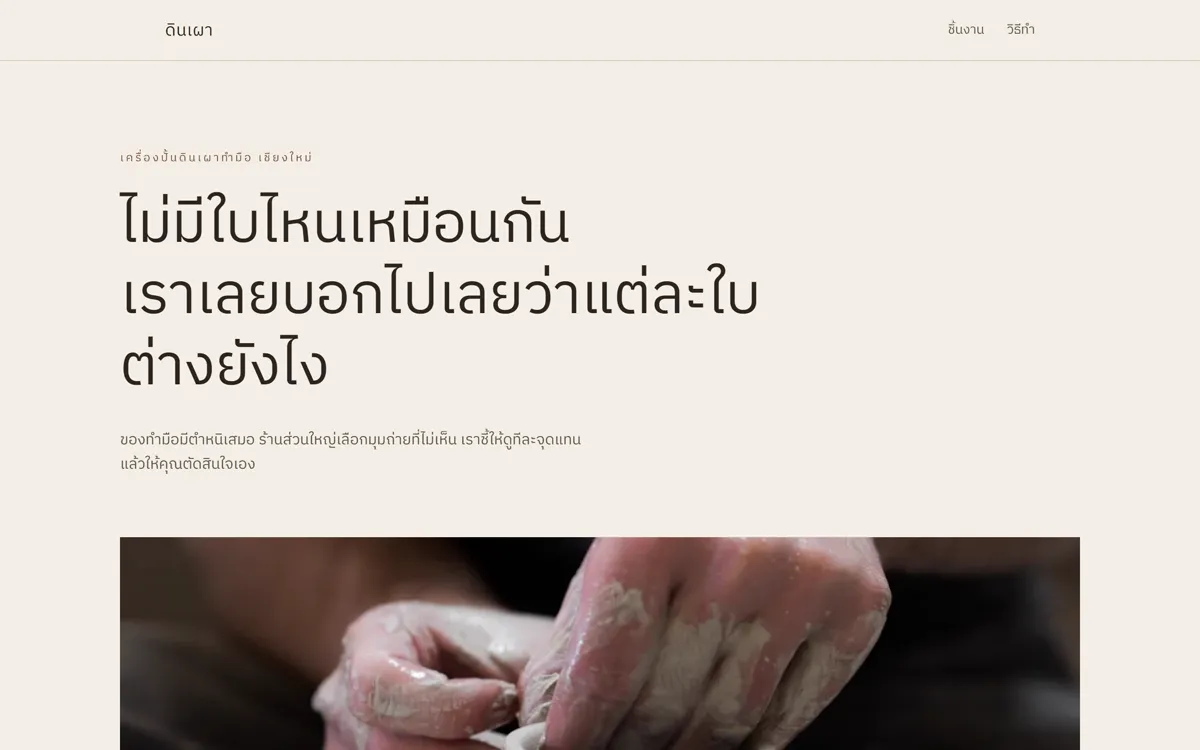
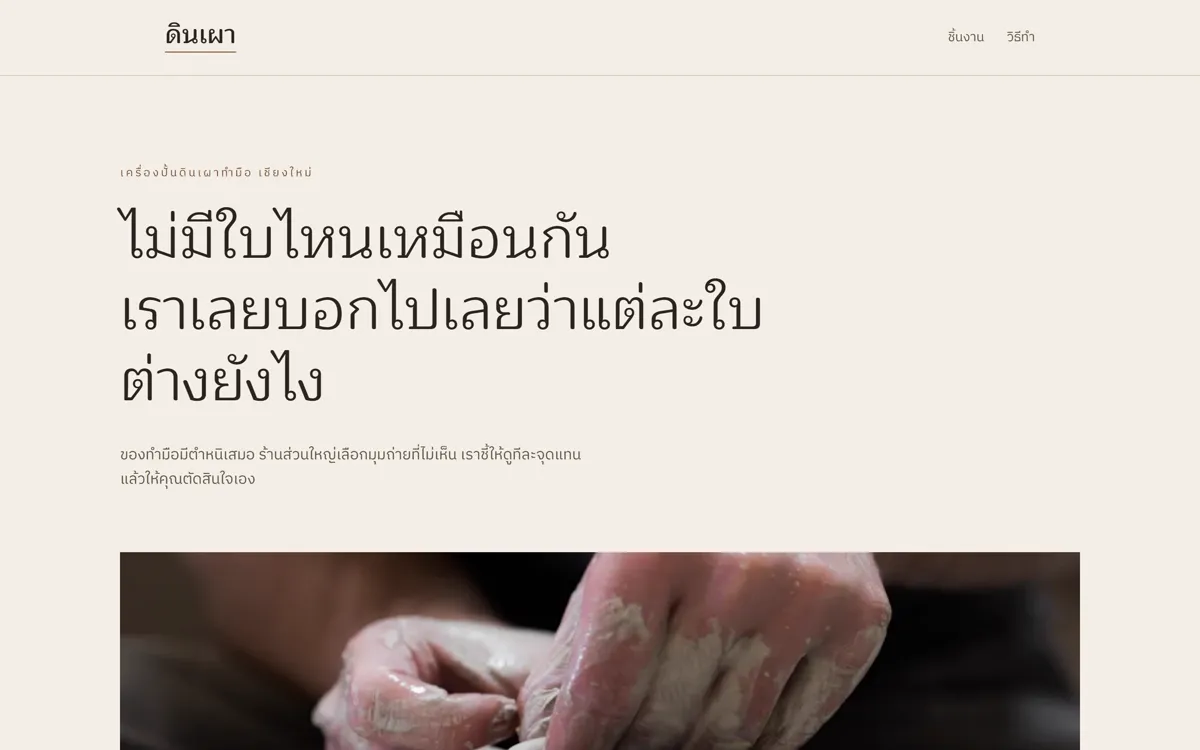
Give Kiln a serif that actually has Thai, and a wordmark that holds its corner
Two problems with one cause. The page was built on a serif/sans pairing and
Cormorant Garamond has no Thai glyphs, so every Thai heading fell through the
stack to the sans. The contrast the whole design rests on was visible on the
prices and nowhere else, and the page read as sans throughout.

Maitree is a Thai serif with a Latin of its own, so the headings are serif in
both scripts and the price sets in one face instead of two: "890" was coming out
of Cormorant while "บาท" beside it came out of Plex, which looked like two
fragments rather than a line. Three faces down to two.

The wordmark was text-lg and disappeared. On a page with this little on it, the
one fixed name has to hold the corner or the header reads as an empty bar. Now
larger, at 600, sitting on a one-pixel clay rule, which this particular word can
carry because none of its letters drop below the baseline. The bar grew to 80px
to give it room, so the anchored sections clear it.

shoot-kiln 11/11, shoot-contrast 36/36, shoot-audit clean at all three widths.

diff --git a/web/src/components/labs/kiln/kiln-demo.tsx b/web/src/components/labs/kiln/kiln-demo.tsx
@@ -28,13 +28,29 @@ export function KilnDemo() {
         className="sticky top-0 border-b"
         style={{ background: COLOR.paper, borderColor: COLOR.hair, zIndex: Z.bar }}
       >
-        <div className="mx-auto flex h-16 max-w-5xl items-center justify-between px-5 sm:px-8 lg:px-12">
+        <div className="mx-auto flex h-20 max-w-5xl items-center justify-between px-5 sm:px-8 lg:px-12">
+          {/* The wordmark was text-lg and disappeared into the whitespace. On a
+              page with this little on it, the one fixed name has to hold the
+              corner or the header reads as empty. Bigger, heavier, and sitting
+              on a clay rule, which "ดินเผา" can carry because none of its
+              letters drop below the baseline. */}
           <a
             href="#top"
-            className="flex items-center py-2 text-lg tracking-wide focus-visible:outline-2 focus-visible:outline-offset-4"
-            style={{ color: COLOR.ink, outlineColor: COLOR.clay, ...serifStyle }}
+            className="flex items-center py-2 focus-visible:outline-2 focus-visible:outline-offset-4"
+            style={{ outlineColor: COLOR.clay }}
           >
-            ดินเผา
+            <span
+              className="text-2xl leading-none sm:text-[1.7rem]"
+              style={{
+                color: COLOR.ink,
+                fontWeight: 600,
+                borderBottom: `1px solid ${COLOR.clay}`,
+                paddingBottom: 3,
+                ...serifStyle,
+              }}
+            >
+              ดินเผา
+            </span>
           </a>
           <nav className="flex items-center gap-6" style={sansStyle}>
             <a
@@ -122,7 +138,7 @@ export function KilnDemo() {
             thing that keeps a three-step section from reading as a pitch. */}
         <section
           id="process"
-          className="scroll-mt-16 px-5 py-24 sm:px-8 lg:px-12"
+          className="scroll-mt-20 px-5 py-24 sm:px-8 lg:px-12"
           style={{ background: COLOR.paperDeep }}
         >
           <motion.div
@@ -196,7 +212,10 @@ export function KilnDemo() {
         style={{ background: COLOR.ink, ...sansStyle }}
       >
         <div className="mx-auto max-w-5xl">
-          <p className="text-2xl" style={{ color: COLOR.paper, ...serifStyle }}>
+          <p
+            className="text-4xl sm:text-5xl"
+            style={{ color: COLOR.paper, fontWeight: 300, ...serifStyle }}
+          >
             ดินเผา
           </p>
           <p className="mt-6 max-w-xl text-sm leading-relaxed" style={{ color: COLOR.onInkMuted }}>

diff --git a/web/src/app/labs/kiln/page.tsx b/web/src/app/labs/kiln/page.tsx
@@ -1,16 +1,16 @@
 import type { Metadata } from "next";
-import { Cormorant_Garamond, IBM_Plex_Sans_Thai } from "next/font/google";
+import { IBM_Plex_Sans_Thai, Maitree } from "next/font/google";
 import { KilnDemo } from "@/components/labs/kiln/kiln-demo";
 import { LabSwitcher } from "@/components/labs/lab-switcher";
 
-// Two faces doing different jobs. The serif carries the headings and the
-// numerals, where the page wants the weight of print; Plex Sans Thai carries
-// everything that has to be read rather than looked at. Cormorant has no Thai
-// glyphs, so the Thai headings fall to Plex through the stack and the pairing
-// only shows on the Latin.
-const serif = Cormorant_Garamond({
-  subsets: ["latin"],
-  weight: ["300", "400"],
+// Maitree, not Cormorant Garamond, which is what this shipped with first.
+// Cormorant has no Thai glyphs, so every Thai heading on the page fell through
+// to the sans and the serif/sans pairing showed up on nothing but the prices.
+// Maitree is a Thai serif with a Latin of its own, so the contrast the page is
+// built on is finally visible in the language the page is written in.
+const serif = Maitree({
+  subsets: ["thai", "latin"],
+  weight: ["300", "400", "600"],
   variable: "--font-kiln-serif",
   display: "swap",
 });

diff --git a/web/src/components/labs/kiln/theme.ts b/web/src/components/labs/kiln/theme.ts
@@ -47,12 +47,8 @@ export const MARKER = {
 export const FONT = {
   /** IBM Plex Sans Thai, loaded by the route */
   sans: "var(--font-kiln-sans), system-ui, sans-serif",
-  /**
-   * Cormorant Garamond for the Latin. It has no Thai glyphs, so Plex Sans Thai
-   * sits next in the stack rather than leaving Thai headings to whatever serif
-   * the device happens to have, which on Windows is a fallback nobody chose.
-   */
-  serif: "var(--font-kiln-serif), var(--font-kiln-sans), Georgia, serif",
+  /** Maitree. A Thai serif, so the headings are serif in both scripts */
+  serif: "var(--font-kiln-serif), Georgia, serif",
 } as const;
 
 export const sansStyle = { fontFamily: FONT.sans } as const;

diff --git a/web/src/components/labs/kiln/pieces-section.tsx b/web/src/components/labs/kiln/pieces-section.tsx
@@ -18,7 +18,7 @@ export function PiecesSection({ piece, onPick }: PiecesSectionProps) {
   return (
     <section
       id="pieces"
-      className="scroll-mt-16 px-5 py-24 sm:px-8 lg:px-12"
+      className="scroll-mt-20 px-5 py-24 sm:px-8 lg:px-12"
       style={{ background: COLOR.paper }}
     >
       <div className="mx-auto max-w-5xl">

diff --git a/web/src/lib/lab-cards.ts b/web/src/lib/lab-cards.ts
@@ -6,7 +6,7 @@
 // สร้างจากสคริปต์ ห้ามแก้มือ
 
 export const labCardVersions: Record<string, string> = {
-  "kiln": "21c49c39",
+  "kiln": "46a5f8d0",
   "slab": "83a94b72",
   "prism": "ca92aac2",
   "ember": "451faf74",
